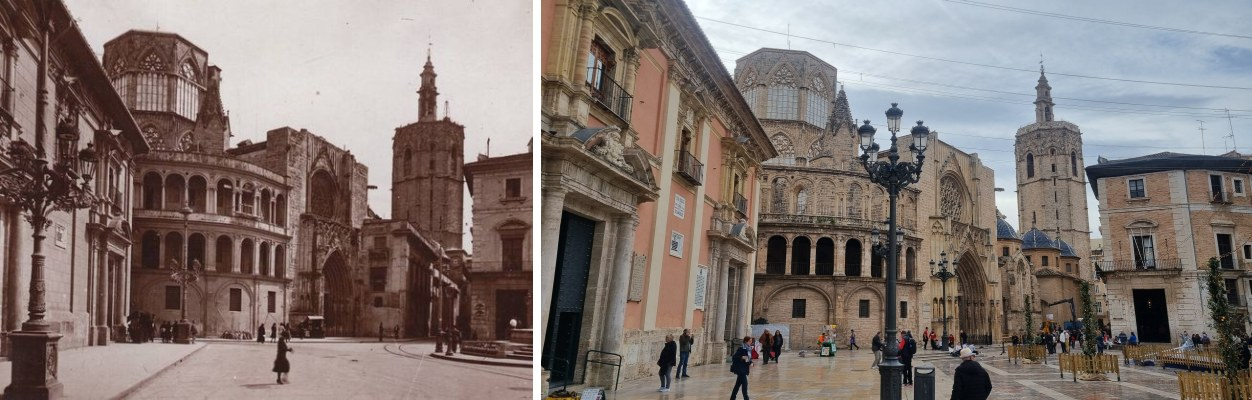
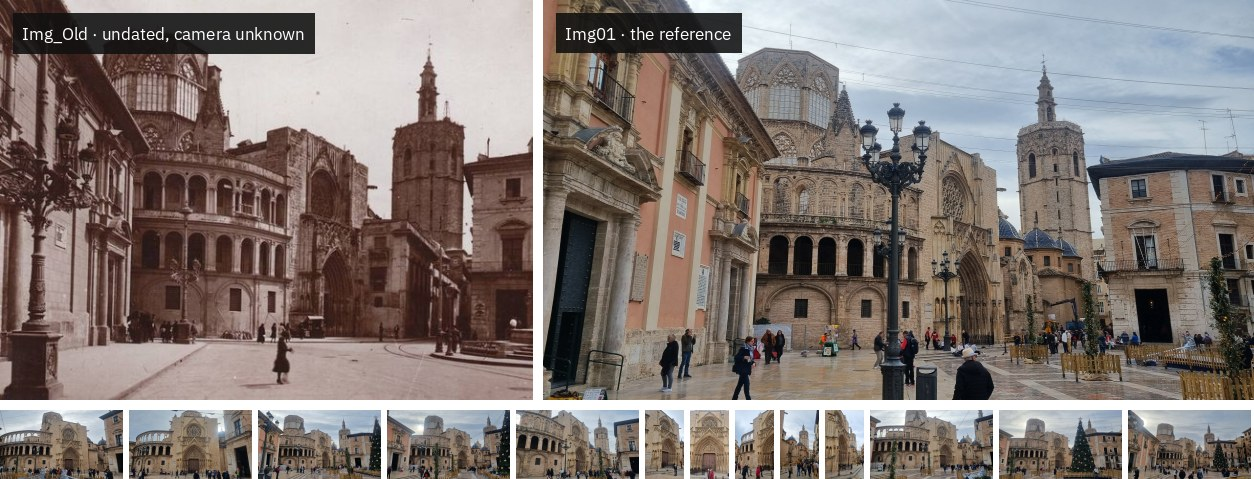
Open with everything the pipeline was given, not two photographs of it
The first figure was the undated photograph beside a modern one, which shows
what the project is about and nothing about what it works from. It now carries
a plate on each -- which one is undated and unattributed, which one it is
matched against -- and the other thirteen photographs underneath, small enough
to be counted rather than looked at. Someone who has never run this can see the
whole input at a glance: one old print, one reference, thirteen more.

Above it, the sentence that was missing: the library takes any set of
photographs, and the set it ships with was photographed for it -- fourteen
frames of one square, one phone, fourteen minutes of one December morning.

The script was reading `data/valencia/scene/`, a path that stopped existing
when a project became one folder, so it had not run since. It reads the names
out of the config now, so the figure cannot illustrate an experiment other than
the one it names, and it turns each photograph as its EXIF says: some are
stored on their side, and four of the thirteen came out upside down.

The typeface both figures are lettered in moves to `animate.py`, beside the
other thing they share.

diff --git a/animation-tools/then_and_now.py b/animation-tools/then_and_now.py
@@ -1,14 +1,103 @@
-"""The README's opening figure: the historical photograph beside a modern one."""
+"""The README's opening figure: everything the project was given.
+
+The undated photograph beside the one it is matched against, large enough to be
+compared, and the rest of the set underneath at a size that says how many there
+are rather than what is in them. Which photographs these are comes out of the
+config, so the figure cannot drift from the experiment it illustrates.
+
+    python animation-tools/then_and_now.py
+"""
+
+import argparse
+from io import BytesIO
+from pathlib import Path
 
 import cv2
 import numpy as np
+from animate import GROUND, typeface
+from PIL import Image, ImageDraw, ImageFont
 
-HEIGHT, GAP = 400, 8
+from sfmkit.core.orientation import upright
+from sfmkit.data.config import load_config
+from sfmkit.data.exif import read_orientation
+from sfmkit.data.io import image_file, read_image
 
-old = cv2.imread("data/valencia/scene/Img_Old.jpg")
-new = cv2.imread("data/valencia/scene/Img01.jpg")
-old, new = (cv2.resize(i, (round(i.shape[1] * HEIGHT / i.shape[0]), HEIGHT),
-                       interpolation=cv2.INTER_AREA) for i in (old, new))
-gap = np.full((HEIGHT, GAP, 3), 255, np.uint8)
-cv2.imwrite("website/docs/figures/then_and_now.jpg", np.hstack([old, gap, new]),
-            [cv2.IMWRITE_JPEG_QUALITY, 88])
+HEIGHT, GAP, STRIP_GAP, PAD = 400, 10, 6, 22
+
+
+def at_height(image: np.ndarray, height: int) -> np.ndarray:
+    width = round(image.shape[1] * height / image.shape[0])
+    return cv2.resize(image, (width, height), interpolation=cv2.INTER_AREA)
+
+
+def caption(frame: np.ndarray, text: str, size: int) -> np.ndarray:
+    """A plate in the top-left corner, lettered like every other figure here."""
+    image = Image.fromarray(frame[..., ::-1])
+    draw = ImageDraw.Draw(image, "RGBA")
+    font = ImageFont.truetype(BytesIO(typeface()), size)
+    box = draw.textbbox((0, 0), text, font=font)
+    pad = 9
+    draw.rectangle([PAD - pad, PAD - pad, PAD + box[2] + pad, PAD + box[3] + pad],
+                   fill=(*GROUND[::-1], 225))
+    draw.text((PAD, PAD), text, font=font, fill=(255, 255, 255, 255))
+    return np.asarray(image)[..., ::-1]
+
+
+def row(images: list[np.ndarray], gap: int, width: int | None = None) -> np.ndarray:
+    """Images side by side on white, brought to ``width`` if one is given.
+
+    Rounding each thumbnail to whole pixels leaves the row a pixel or two off
+    whatever it was sized for, which is a pixel or two of white, or of nothing.
+    """
+    height = images[0].shape[0]
+    spacer = np.full((height, gap, 3), 255, np.uint8)
+    strip = np.hstack([x for pair in zip(images, [spacer] * len(images), strict=True)
+                       for x in pair][:-1])
+    if width and strip.shape[1] < width:
+        strip = np.hstack([strip, np.full((height, width - strip.shape[1], 3), 255, np.uint8)])
+    return strip[:, :width] if width else strip
+
+
+def main() -> int:
+    p = argparse.ArgumentParser(description=__doc__.splitlines()[0])
+    p.add_argument("--config", default="projects/valencia/configs/cpu.yaml")
+    p.add_argument("--out", type=Path, default=Path("website/docs/figures/then_and_now.jpg"))
+    args = p.parse_args()
+
+    cfg = load_config(args.config)
+    scene = cfg.scene_dir
+    reference = cfg.sfm.reference or cfg.sfm.images[0]
+    query = cfg.localize.query
+    others = [n for n in cfg.sfm.images if n != reference]
+
+    def load(name):
+        """As the photograph is meant to be seen: a phone stores some of these
+        on their side and says so in EXIF, which is why the pipeline turns them
+        too before it looks for features."""
+        path = image_file(scene, name)
+        return at_height(upright(read_image(path), read_orientation(path)), HEIGHT)
+
+    # One size for both plates: sized off each photograph's own width, the two
+    # labels come out different, which reads as a mistake.
+    old, ref = load(query), load(reference)
+    size = max(15, min(old.shape[1], ref.shape[1]) // 30)
+    top = row([caption(old, f"{query} · undated, camera unknown", size),
+               caption(ref, f"{reference} · the reference", size)], GAP)
+
+    # The strip is sized to end where the two photographs above it end, so its
+    # height is whatever the number of them leaves over rather than a choice.
+    rest = [load(n) for n in others]
+    aspects = [i.shape[1] / i.shape[0] for i in rest]
+    height = round((top.shape[1] - STRIP_GAP * (len(rest) - 1)) / sum(aspects))
+    strip = row([at_height(i, height) for i in rest], STRIP_GAP, width=top.shape[1])
+
+    figure = np.vstack([top, np.full((GAP, top.shape[1], 3), 255, np.uint8), strip])
+    args.out.parent.mkdir(parents=True, exist_ok=True)
+    cv2.imwrite(str(args.out), figure, [cv2.IMWRITE_JPEG_QUALITY, 88])
+    print(f"{args.out}: {figure.shape[1]}x{figure.shape[0]}, "
+          f"{len(others)} more at {height} px, {args.out.stat().st_size / 1e6:.2f} MB")
+    return 0
+
+
+if __name__ == "__main__":
+    raise SystemExit(main())

diff --git a/animation-tools/changes_animation.py b/animation-tools/changes_animation.py
@@ -18,24 +18,18 @@ all three.
 """
 
 import argparse
-import functools
 from io import BytesIO
 from pathlib import Path
 
 import cv2
-import matplotlib
 import numpy as np
-from animate import FORMATS, save
+from animate import FORMATS, GROUND, save, typeface
 from PIL import Image, ImageDraw, ImageFont
 
 from sfmkit.core.changes import detect_changes
 from sfmkit.data import io
 from sfmkit.data.config import default_run_dir, load_config
 
-ROOT = Path(__file__).resolve().parents[1]
-PLEX = ROOT / "packages/viewer/src/sfmview/web/vendor/fonts/ibmplexsans-latin.woff2"
-FALLBACK = Path(matplotlib.__file__).parent / "mpl-data/fonts/ttf/DejaVuSans.ttf"
-GROUND = (16, 16, 16)  # the viewer's, so the figures of this project match
 SIGNAL = (0, 79, 255)  # the viewer's orange, in BGR
 
 # What to point at once the change map is up: the boxes of one remark, in
@@ -51,25 +45,6 @@ PLACES = [
       (0.455, 0.778, 0.616, 0.995), (0.653, 0.781, 0.827, 0.945)],
      "People in both, never in the same place"),
 ]
-
-
-@functools.cache
-def typeface() -> bytes:
-    """The viewer's own IBM Plex Sans, as something PIL can open.
-
-    The viewer keeps it as woff2, which PIL cannot read; fontTools decompresses
-    it (through brotli) and writes it back out as TrueType, so the figures and
-    the viewer are set in one typeface kept in one place.
-    """
-    try:
-        from fontTools.ttLib import TTFont
-        out = BytesIO()
-        font = TTFont(PLEX)
-        font.flavor = None
-        font.save(out)
-        return out.getvalue()
-    except Exception:  # noqa: BLE001 - any of fontTools, brotli or the file
-        return FALLBACK.read_bytes()
 
 
 def ease(t: float) -> float:

diff --git a/animation-tools/animate.py b/animation-tools/animate.py
@@ -2,16 +2,45 @@
 
 Frames are BGR arrays, as OpenCV makes them, with a duration each in
 milliseconds; a held frame costs a video almost nothing and a WebP one entry.
+The typeface every figure is lettered in lives here too, for the same reason.
 """
 
+import functools
 import shutil
 import subprocess
+from io import BytesIO
 from pathlib import Path
 
 import numpy as np
 from PIL import Image
 
 FORMATS = ("gif", "webp", "mp4", "all")
+
+ROOT = Path(__file__).resolve().parents[1]
+PLEX = ROOT / "packages/viewer/src/sfmview/web/vendor/fonts/ibmplexsans-latin.woff2"
+GROUND = (16, 16, 16)  # the viewer's ground, so the figures of this project match
+
+
+@functools.cache
+def typeface() -> bytes:
+    """The viewer's own IBM Plex Sans, as something PIL can open.
+
+    The viewer keeps it as woff2, which PIL cannot read; fontTools decompresses
+    it (through brotli) and writes it back out as TrueType, so the figures and
+    the viewer are set in one typeface kept in one place. Without fontTools,
+    matplotlib's DejaVu Sans.
+    """
+    try:
+        from fontTools.ttLib import TTFont
+        out = BytesIO()
+        font = TTFont(PLEX)
+        font.flavor = None
+        font.save(out)
+        return out.getvalue()
+    except Exception:  # noqa: BLE001 - any of fontTools, brotli or the file
+        import matplotlib
+        return (Path(matplotlib.__file__).parent
+                / "mpl-data/fonts/ttf/DejaVuSans.ttf").read_bytes()
 
 
 def write_video(frames, times, out: Path, fps: int, crf: int = 23) -> Path:

diff --git a/animation-tools/README.md b/animation-tools/README.md
@@ -31,7 +31,7 @@ site's are relative to its own pages.
 
 | File | What it shows | How it is made | Used in |
 |---|---|---|---|
-| `then_and_now.jpg` | The historical photo beside a modern one | `python animation-tools/then_and_now.py`, from the repo root | README |
+| `then_and_now.jpg` | The whole input: the undated photograph, the one it is matched against, and the rest of the set underneath | `python animation-tools/then_and_now.py`, from the repo root. Reads the images out of the config, and turns them as their EXIF says | README, the site |
 | `old_photo.webp`, `old_photo.mp4` | The old photograph landing on today's, what changed, and what changed where | `python animation-tools/changes_animation.py --layout side --format webp --width 860 --quality 38` (the MP4: `--format mp4 --width 1400`) | README, the site |
 | `growth.webp`, `growth.mp4` | The map being built, camera by camera | `python animation-tools/growth_animation.py --format webp --width 1000 --out website/docs/figures/growth` (the MP4: `--format mp4`) | README, the site |
 | `viewer.png` | The viewer on the frozen GPU run, so its counts are the ones the README quotes | `sfmview --projects projects --port 8124`, then `google-chrome --headless=new --disable-gpu --use-angle=swiftshader --window-size=1400,900 --virtual-time-budget=30000 --screenshot=viewer.png "http://localhost:8124/#valencia/reference-gpu-dense"` | README, the site |

diff --git a/README.md b/README.md
@@ -13,10 +13,16 @@ It was built to answer one question. Give it a handful of photographs of a place
 and one undated photograph of the same place, and it works out where the old one
 was taken from — then shows you, on today's photograph, what is no longer there.
 
-![The same square, a century apart](website/docs/figures/then_and_now.jpg)
+The library is open source and takes any set of photographs — `sfmkit new` lays a
+project of your own out beside this one. The set that ships with it was
+photographed for it: fourteen frames of the Plaza de la Virgen in Valencia, one
+phone, fourteen minutes of one December morning, and one undated print of the
+same square whose photographer and camera are unknown.
 
-*Plaza de la Virgen, Valencia. Where was the one on the left taken from, and what
-has changed since?*
+![The photographs the pipeline is given](website/docs/figures/then_and_now.jpg)
+
+*What it is given. The undated photograph is matched against `Img01` alone and
+kept out of the model; the thirteen underneath are what build it.*
 
 **[Documentation](https://dpadillaor.github.io/sfmkit/)** ·
 [Tutorial](https://dpadillaor.github.io/sfmkit/tutorial/) ·

diff --git a/website/docs/index.md b/website/docs/index.md
@@ -35,10 +35,12 @@ that model, and checks itself against <a href="https://colmap.github.io/">COLMAP
 </dl>
 </section>
 
-![The same square, a century apart](figures/then_and_now.jpg)
+![The photographs the pipeline is given](figures/then_and_now.jpg)
 
-*Plaza de la Virgen, Valencia. Left: an undated historical photograph. Right: the
-same square today, from a phone.*
+*What it is given: fourteen photographs of the Plaza de la Virgen taken one
+December morning, and one undated print of the same square. The old one is
+matched against `Img01` alone and kept out of the model; the thirteen underneath
+are what build it.*
 
 **Where was the old photograph taken from, and what has changed since?**
 
